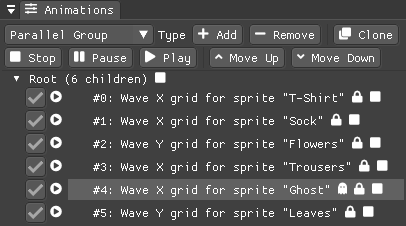
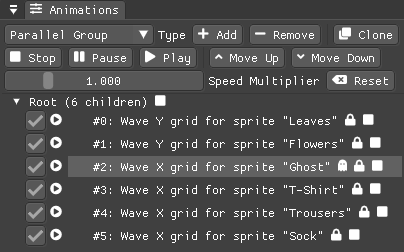
Update the documentation with the new features
- Update the animations window screenshot to show the new speed multiplier
- Update the configuration window screenshot to remove the savefile size option

diff --git a/docs/documentation.html b/docs/documentation.html
@@ -872,7 +872,7 @@ You can make the window <b class="button">Resizable</b> or not as well as <b cla
 To apply the changes in this section you need to save the configuration and restart the program.</p>
 </div>
 <div class="paragraph">
-<p>You can choose the initial canvas size that will be used when the program starts for the first time as well as the maximum size of the Lua project file.</p>
+<p>You can choose the initial canvas size that will be used when the program starts for the first time.</p>
 </div>
 <div class="paragraph">
 <p>After that, you can choose the name of a project file that will be loaded the first time you start the program and optionally play it right away.</p>
@@ -1088,6 +1088,9 @@ You can reload a script also by pressing <span class="keyseq"><kbd>CTRL</kbd>+<k
 </div>
 <div class="paragraph">
 <p>You can use it to <b class="button">Add</b> and <b class="button">Remove</b> animations and to change their state with the <b class="button">Stop</b>, <b class="button">Pause</b>, and <b class="button">Play</b> buttons.</p>
+</div>
+<div class="paragraph">
+<p>Below those buttons there is slider to control the global speed multiplier, it can be used to change the speed of all animations at once.</p>
 </div>
 <div class="paragraph">
 <p>You can delete the selected animation also by pressing the <kbd>Delete</kbd> key while the cursor is over this window.</p>
@@ -2076,6 +2079,17 @@ It can be one of the members of the <code>blending_preset</code> table: <code>DI
 <div class="sect1">
 <h2 id="_changelog">Changelog</h2>
 <div class="sectionbody">
+<h3 id="_16_july_2021" class="discrete">16 July 2021</h3>
+<div class="ulist">
+<ul>
+<li>
+<p><strong>[NEW]</strong> Add a global speed multiplier for all animations</p>
+</li>
+<li>
+<p><strong>[FIX]</strong> Remove the <code>Savefile Size</code> configuration entry as it is not needed anymore</p>
+</li>
+</ul>
+</div>
 <h3 id="_01_june_2021" class="discrete">01 June 2021</h3>
 <div class="ulist">
 <ul>
